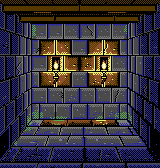
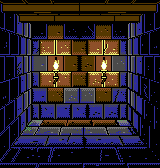
Catacombs rooms round 3 WIP: joint-aligned light rings, soot plume, no double-lit joints, dark ceiling

diff --git a/Catacombs/art/room_art.py b/Catacombs/art/room_art.py
@@ -336,16 +336,32 @@ def ambient_level(kind, pos):
     return 0.0
 
 
-def face_level(cls, lit):
-    """The face position on the region's ramp for a light level: solid faces, and blue only
-    as a dither toward black."""
-    if cls == 2:                                          # per pixel: a radial falloff in half steps
-        return max(1.0, min(2.5, math.floor((lit - 1.6) * 2.0 + 0.5) / 2.0))
-    if lit < 0.6:
-        return 0.0
-    if lit < 1.55:
-        return 0.5
-    return 2.0
+RING0 = (0, 8, 10, 7)           # stones touching a flame: light red faces, orange shadows, yellow edges
+RING1 = (0, 9, 8, 10)           # the next ring: orange faces, brown shadows, light red edges
+
+
+def stone_style(rid, ew, lit):
+    """(ramp, shadow, face, highlight) for a stone region: rings of light around the
+    flames on the far wall (aligned to the stones), depth bands elsewhere. Faces are
+    solid; blue is the face of unlit stone, black the face of the darkest."""
+    kind = rid[0]
+    if kind in ('fw', 'dn'):
+        if ew >= 3.15:
+            return WARM, 1.0, 2.0, 3.0                    # touching the torch: orange, yellow edges
+        if ew >= 2.65:
+            return WARM, 0.0, 1.0, 2.0                    # next ring: brown, orange edges
+        if ew >= 2.4 and rid[1] != 0:
+            return COLD, 1.0, 2.0, 3.0                    # grey, within reach of the light
+        if rid[1] == 0 or ew < 0.9:
+            return COLD, 0.0, 0.0, 1.0                    # the top course, the far corners: black
+        return COLD, 0.0, 1.0, 2.0                        # blue, grey lit edge
+    if ew >= {"fl": 2.6}.get(kind, 2.4):
+        return WARM, 0.0, 1.0, 2.0                        # the floor / wall right under a torch
+    if lit >= 2.2:
+        return COLD, 1.0, 2.0, 3.0
+    if lit >= 1.3:
+        return COLD, 0.0, 1.0, 2.0
+    return COLD, 0.0, 0.0, 1.0
 
 
 def level_of(e):
@@ -445,18 +461,19 @@ CUP = ["KhhhhhhK", ".KKKKKK."]          # the cup's glowing rim: the flame pictu
 def flame_rows(frame):
     """8x16 multicolour pixels over the wall: soot around the flame, the flame, the cup's rim."""
     rows = []
+    tip = min(fy for fy, row in enumerate(FLAMES[frame]) if row.strip('.'))
     for fy, row in enumerate(FLAMES[frame] + CUP):
         out = ""
         for fx, ch in enumerate(row):
-            if ch == '.' and fy < 14:
-                if fy >= 1:
-                    ch = 'K'                              # soot on the stone behind the flame
+            if ch == '.' and 1 <= fy < tip and 3 <= fx <= 4:
+                if fy >= tip - 3 or (fx + fy) & 1:
+                    ch = 'K'                              # a thin plume of soot above the flame
             out += ch
         rows.append(out)
     return rows
 
 
-FLAME_LEGEND = {'W': 1, 'y': 7, 'o': 8, 'h': 'H'}
+FLAME_LEGEND = {'W': 1, 'y': 1, 'o': 7, 'h': 'H'}   # white flame, yellow tongues: it must read on orange stone
 
 DEAD_TORCH = [
     "........",
@@ -629,6 +646,11 @@ def in_moss(mx, my):
 # ---------------------------------------------------------------------------
 
 BASE_CFG = Cfg()
+_OWN = set()                    # regions that hold a torch
+
+
+def info_own(rid):
+    return rid in _OWN
 _BASE_INFO = {}
 
 
@@ -667,7 +689,13 @@ def render(cfg):
         ec = ambient_level(kind, pos)
         scx, scy = 2 * a[4] / n + 1, a[5] / n + 0.5
         tsx, tsy = min(TORCH_SCREEN, key=lambda t: (t[0] - scx) ** 2 + (t[1] - scy) ** 2)
-        info[rid] = (ew, ec, tsx >= scx - 0.5, tsy >= scy - 0.5, hash2('v', rid))
+        # Lit edges face the nearest torch; a stone straddling the torch's own
+        # column (or row) gets no lit edge on that axis, so a joint is never lit on both sides.
+        lr = None if abs(tsx - scx) < 12.0 and kind in ('fw', 'dn') else tsx >= scx - 0.5
+        ld = None if abs(tsy - scy) < 6.0 and kind in ('fw', 'dn') else tsy >= scy - 0.5
+        info[rid] = (ew, ec, lr, ld, hash2('v', rid))
+        if abs(tsx - scx) < 6.0 and abs(tsy - scy) < 10.0:
+            _OWN.add(rid)
 
     if cfg is BASE_CFG:
         _BASE_INFO.update(info)
@@ -692,6 +720,10 @@ def render(cfg):
             dr = edge_dist(S, mx + 1, my, 1, 0, rid)
             lv_, fv_ = (dd, du) if lit_down else (du, dd)
             lh_, fh_ = (dr, dl) if lit_right else (dl, dr)
+            if lit_down is None:
+                lv_ = fv_ = 9
+            if lit_right is None:
+                lh_ = fh_ = 9
             tone = 2.0
             if lv_ == 1 or lh_ == 1:
                 tone = 3.0
@@ -730,40 +762,34 @@ def render(cfg):
             in_flame = any(cx * 4 <= mx < cx * 4 + 8 and cy * 8 <= my < cy * 8 + 16 for cx, cy in FLAME_CELLS)
             if in_flame:
                 tone = float(round(tone)) if tone != 2.0 else 2.0
-            cls = 2 if ew >= {"fl": 2.6, "left": 2.4, "right": 2.4}.get(rid[0], WARM_AT) else (1 if ew >= 1.5 else 0)
-            if mat != STONE:
-                cls = 0
-            ramp = RAMPS[(mat, cls)]
-            top = len(ramp) - 1
+            ramp, top = RAMPS[(mat, 0)], len(RAMPS[(mat, 0)]) - 1
             lit_ = ew + ec + bias
-            if bias >= FIXED:
+            if mat == STONE and bias >= FIXED:
                 lv = bias - FIXED
-                if mat == STONE:
-                    ramp, top = COLD, len(COLD) - 1
-            elif mat == STONE and cls == 2:
-                pe = warm_level(torch_energy(s[5:8], NORMALS[KIND.get(rid[0], rid[0])]))
-                lv = face_level(2, pe + bias)
+                ramp, ps, pm, ph = COLD, max(0.0, lv - 1.0), lv, lv + 1.0
             elif mat == STONE:
-                lv = face_level(cls, lit_)
+                ramp, ps, pm, ph = stone_style(rid, ew, lit_)
             else:
-                lv = max(0.0, min(top - 1.0, math.floor((lit_ + LEVEL_SHIFT[mat]) * 2.0 + 0.5) / 2.0))
-            if mat == WOOD:
-                lv = min(lv, 1.5)
-            if in_flame and not (DARK and mx < 80):
-                ramp, lv = WARM, 2.0                      # flame cells: solid orange, so the pictures fit
-            lo_, hi_ = math.floor(lv), math.ceil(lv)
-            ps = max(0.0, lo_ - 1.0)
-            if lo_ >= 2 and hi_ > lo_:
-                ps = lo_
-            pm, ph = lv, min(top, hi_ + 1.0)
-            if ramp is WARM:
-                ph = min(ph, 3.0)                         # yellow edges; white is the flame's alone
-            if mat == WOOD:
-                ph = min(ph, 2.0 if lv >= 1.0 else 1.0)
+                lv = bias - FIXED if bias >= FIXED else                     max(0.0, min(top - 1.0, math.floor((lit_ + LEVEL_SHIFT[mat]) * 2.0 + 0.5) / 2.0))
+                if mat == WOOD:
+                    lv = min(lv, 1.5)
+                lo_, hi_ = math.floor(lv), math.ceil(lv)
+                ps = max(0.0, lo_ - 1.0)
+                pm, ph = lv, min(top, hi_ + 1.0)
+                if mat == WOOD:
+                    ph = min(ph, 2.0 if lv >= 1.0 else 1.0)
+                if rid[0] == 'ce':
+                    ramp, ps, pm, ph = WOODR, 0.0, 0.0, 1.0      # black planks, brown joints
+                elif rid[0] == 'bf':
+                    ramp, ps, pm, ph = WOODR, 1.0, 1.0, 2.0 if abs(abs(s[5]) - TORCH_X) < 18.0 else 1.0
+                elif rid[0] == 'bb':
+                    ramp, ps, pm, ph = WOODR, 0.0, (1.0 if len(rid) > 2 else 0.0), (2.0 if len(rid) > 2 else 0.0)
                 if rid[0] in ('ce', 'bf', 'bb'):
-                    tone = min(tone, 2.0)
+                    tone = min(tone, 2.0) if rid[0] != 'ce' else tone
+            if info_own(rid) and tone == 3.0:
+                tone = 2.0                                 # the stone holding the torch: no lit edge
             if in_flame and not (DARK and mx < 80):
-                ps, ph = 2.0, 3.0
+                ramp, ps, pm, ph = WARM, 2.0, 2.0, 3.0     # flame cells: solid orange, so the pictures fit
             if mat == IRON:
                 ps, pm, ph = 0.0, 1.0, 1.0                 # dark iron: grey face, black outline
                 if rid[1] == 'stud':

diff --git a/Catacombs/RoomArt.cs b/Catacombs/RoomArt.cs
@@ -1,30 +1,30 @@
 // Generated by art/room_art.py -- do not edit; change the script and run it again.
 using C64Lib;
 
-[assembly: RawImage(Resource = "room.img", Label = "Room")]   // 3517 bytes
-[assembly: RawImage(Resource = "door_n.img", Label = "DoorN")]   // 483 bytes
-[assembly: RawImage(Resource = "door_n2.img", Label = "DoorN2")]   // 256 bytes
-[assembly: RawImage(Resource = "door_n3.img", Label = "DoorN3")]   // 194 bytes
-[assembly: RawImage(Resource = "door_w.img", Label = "DoorW")]   // 463 bytes
-[assembly: RawImage(Resource = "door_e.img", Label = "DoorE")]   // 448 bytes
-[assembly: RawImage(Resource = "door_s.img", Label = "DoorS")]   // 166 bytes
-[assembly: RawImage(Resource = "prop_chains.img", Label = "Chains")]   // 166 bytes
-[assembly: RawImage(Resource = "prop_banner.img", Label = "Banner")]   // 164 bytes
+[assembly: RawImage(Resource = "room.img", Label = "Room")]   // 2957 bytes
+[assembly: RawImage(Resource = "door_n.img", Label = "DoorN")]   // 445 bytes
+[assembly: RawImage(Resource = "door_n2.img", Label = "DoorN2")]   // 239 bytes
+[assembly: RawImage(Resource = "door_n3.img", Label = "DoorN3")]   // 200 bytes
+[assembly: RawImage(Resource = "door_w.img", Label = "DoorW")]   // 447 bytes
+[assembly: RawImage(Resource = "door_e.img", Label = "DoorE")]   // 423 bytes
+[assembly: RawImage(Resource = "door_s.img", Label = "DoorS")]   // 130 bytes
+[assembly: RawImage(Resource = "prop_chains.img", Label = "Chains")]   // 170 bytes
+[assembly: RawImage(Resource = "prop_banner.img", Label = "Banner")]   // 160 bytes
 [assembly: RawImage(Resource = "prop_bones.img", Label = "Bones")]   // 121 bytes
 [assembly: RawImage(Resource = "prop_puddle.img", Label = "Puddle")]   // 200 bytes
-[assembly: RawImage(Resource = "prop_grate.img", Label = "Grate")]   // 136 bytes
-[assembly: RawImage(Resource = "prop_webs.img", Label = "Webs")]   // 292 bytes
-[assembly: RawImage(Resource = "prop_dark.img", Label = "Dark")]   // 450 bytes
-[assembly: RawImage(Resource = "flame0.img", Label = "Flame0")]   // 55 bytes
-[assembly: RawImage(Resource = "flame1.img", Label = "Flame1")]   // 55 bytes
-[assembly: RawImage(Resource = "flame2.img", Label = "Flame2")]   // 55 bytes
+[assembly: RawImage(Resource = "prop_grate.img", Label = "Grate")]   // 125 bytes
+[assembly: RawImage(Resource = "prop_webs.img", Label = "Webs")]   // 284 bytes
+[assembly: RawImage(Resource = "prop_dark.img", Label = "Dark")]   // 418 bytes
+[assembly: RawImage(Resource = "flame0.img", Label = "Flame0")]   // 54 bytes
+[assembly: RawImage(Resource = "flame1.img", Label = "Flame1")]   // 54 bytes
+[assembly: RawImage(Resource = "flame2.img", Label = "Flame2")]   // 54 bytes
 [assembly: RawImage(Resource = "flame3.img", Label = "Flame3")]   // 54 bytes
-[assembly: RawImage(Resource = "glow00.img", Label = "Glow00")]   // 36 bytes
-[assembly: RawImage(Resource = "glow01.img", Label = "Glow01")]   // 42 bytes
-[assembly: RawImage(Resource = "glow02.img", Label = "Glow02")]   // 36 bytes
-[assembly: RawImage(Resource = "glow10.img", Label = "Glow10")]   // 36 bytes
-[assembly: RawImage(Resource = "glow11.img", Label = "Glow11")]   // 45 bytes
-[assembly: RawImage(Resource = "glow12.img", Label = "Glow12")]   // 36 bytes
+[assembly: RawImage(Resource = "glow00.img", Label = "Glow00")]   // 10 bytes
+[assembly: RawImage(Resource = "glow01.img", Label = "Glow01")]   // 10 bytes
+[assembly: RawImage(Resource = "glow02.img", Label = "Glow02")]   // 10 bytes
+[assembly: RawImage(Resource = "glow10.img", Label = "Glow10")]   // 10 bytes
+[assembly: RawImage(Resource = "glow11.img", Label = "Glow11")]   // 10 bytes
+[assembly: RawImage(Resource = "glow12.img", Label = "Glow12")]   // 10 bytes
 
 [assembly: RawAssembly(Asm = @"
 ; room themes: 16-byte colour tables for Screen.RemapCellColors (theme 0 = as drawn, no table)
